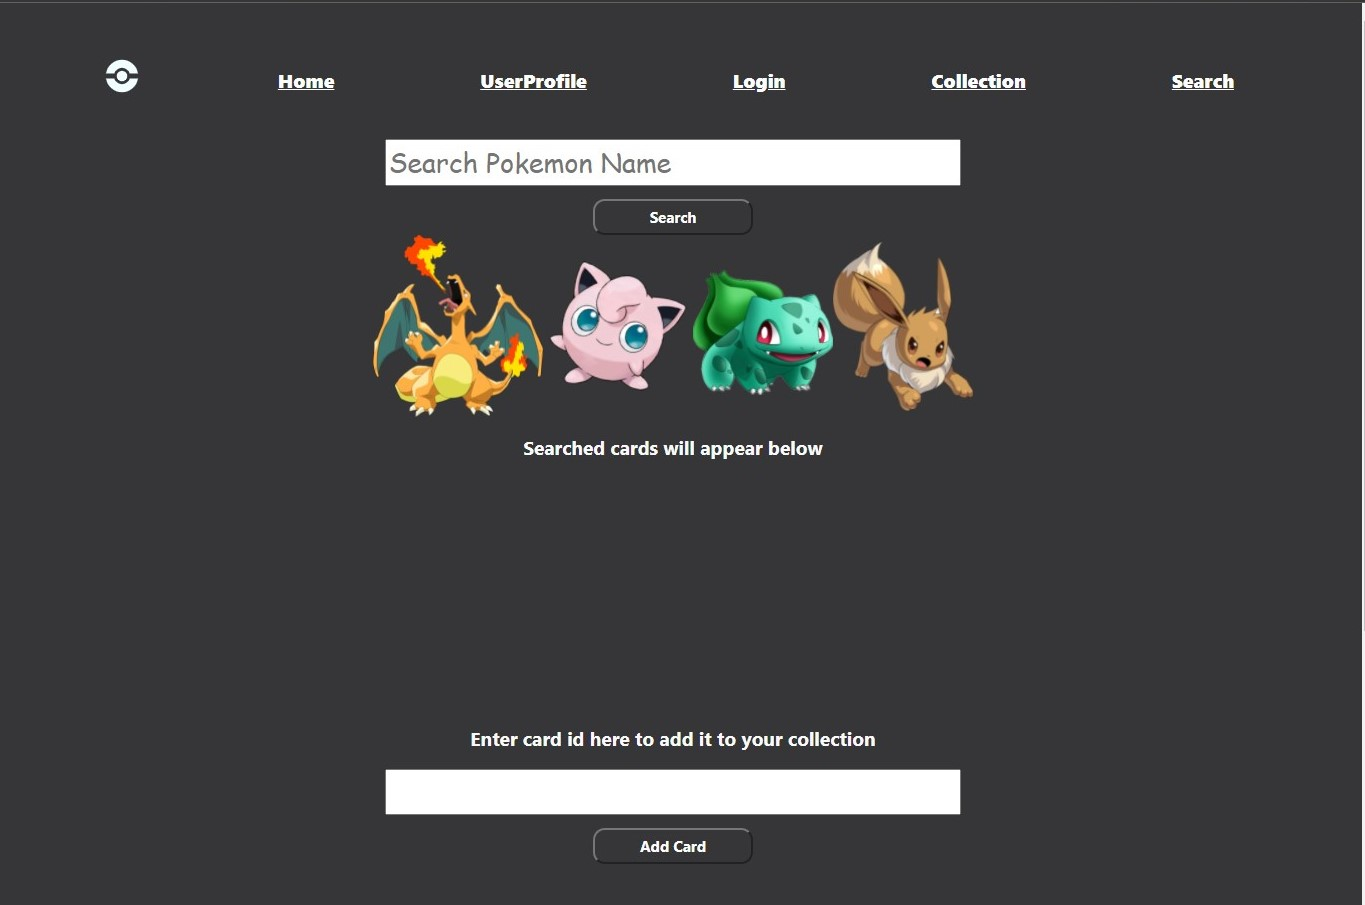
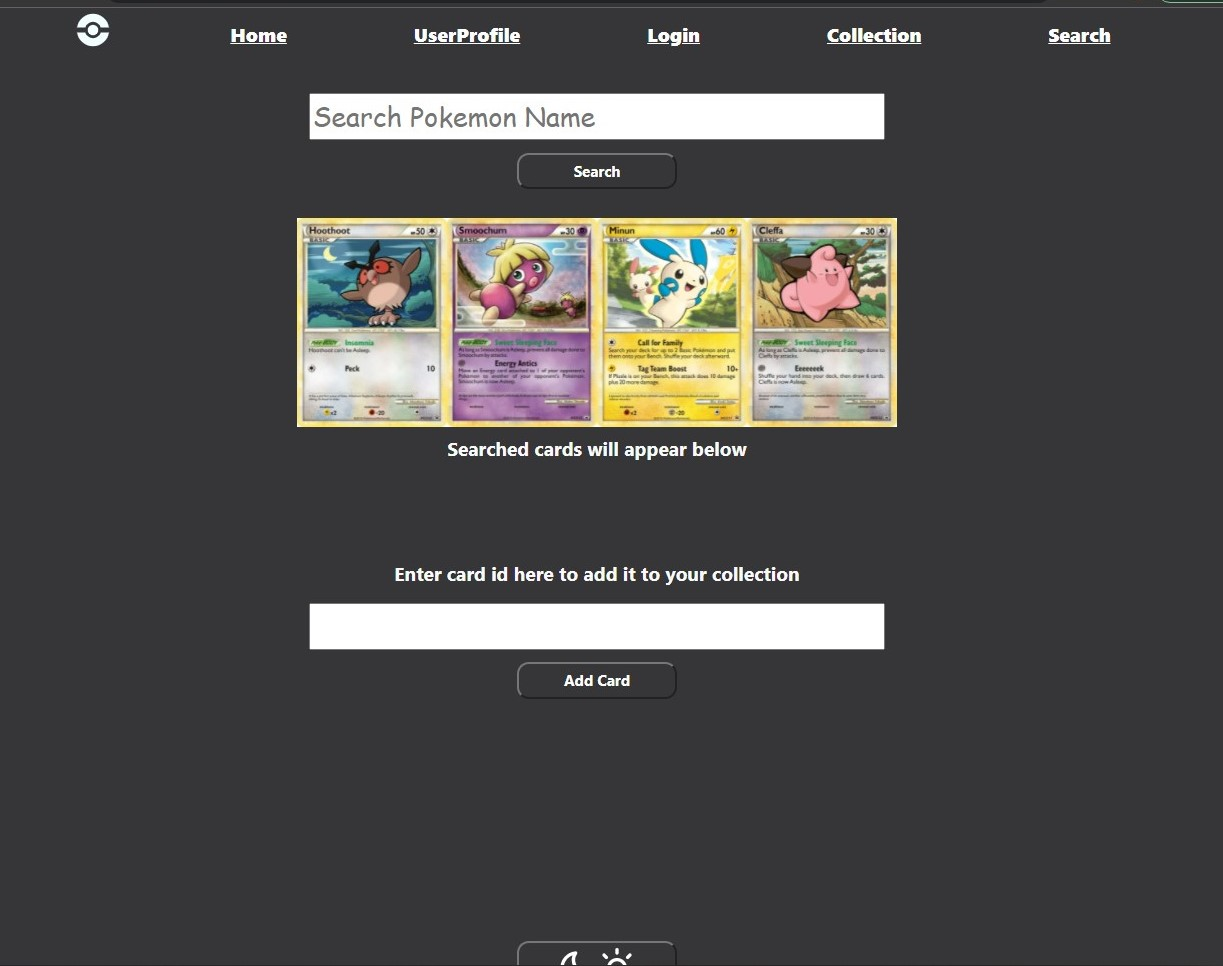
finished styling and alice the slider

diff --git a/src/components/Alice1.js b/src/components/Alice1.js
@@ -1,0 +1,67 @@
+import "./style.css";
+import { useState } from "react";
+import AliceCarousel from "react-alice-carousel";
+import "react-alice-carousel/lib/alice-carousel.css";
+
+export default function Alice1() {
+  const items = [
+    "https://i0.wp.com/pkmncards.com/wp-content/uploads/charmander-delta-pop-series-5-10.jpg?fit=600%2C825&ssl=1",
+    "https://i0.wp.com/pkmncards.com/wp-content/uploads/meowth-delta-pop-series-5-11.jpg?fit=600%2C825&ssl=1",
+    "https://i0.wp.com/pkmncards.com/wp-content/uploads/pikachu-pop-series-5-12.jpg?fit=600%2C825&ssl=1",
+    "https://i0.wp.com/pkmncards.com/wp-content/uploads/wobbuffet-neo-discovery-16.jpg?fit=600%2C825&ssl=1",
+    "https://i0.wp.com/pkmncards.com/wp-content/uploads/butterfree-neo-discovery-19.jpg?fit=600%2C825&ssl=1",
+    "https://i0.wp.com/pkmncards.com/wp-content/uploads/smeargle-neo-discovery-30.jpg?fit=600%2C825&ssl=1",
+    "https://i0.wp.com/pkmncards.com/wp-content/uploads/corsola-neo-discovery-37.jpg?fit=600%2C825&ssl=1",
+    "https://i0.wp.com/pkmncards.com/wp-content/uploads/caterpie-neo-discovery-53.jpg?fit=600%2C825&ssl=1",
+    "https://i0.wp.com/pkmncards.com/wp-content/uploads/hoppip-neo-discovery-55.jpg?fit=600%2C825&ssl=1"
+  ].map((item, i) => (
+    <div
+      style={{
+        display: "inline-block",
+        width: 200,
+        height: 300,
+        border: "2px solid #fff",
+        background: "teal"
+      }}
+      role="button"
+    >
+      <img
+        style={{
+          width: 200,
+          height: 300
+        }}
+        src={item}
+        alt="item"
+      />
+    </div>
+  ));
+
+  return (
+    <div>
+      <AliceCarousel
+        items={items}
+        infinite
+        animationDuration={200}
+        autoWidth
+        mouseTracking
+        touchTracking
+      />
+    </div>
+  );
+}
+
+function Tile({ onClick }) {
+  return (
+    <div
+      style={{
+        display: "inline-block",
+        width: 200,
+        height: 300,
+        border: "2px solid #fff",
+        background: "teal"
+      }}
+      tabIndex={0}
+      role="button"
+    />
+  );
+}

diff --git a/src/components/Alice.js b/src/components/Alice.js
@@ -1,0 +1,66 @@
+import "./style.css";
+import { useState } from "react";
+import AliceCarousel from "react-alice-carousel";
+import "react-alice-carousel/lib/alice-carousel.css";
+
+export default function Alice() {
+  const items = [
+    "https://i0.wp.com/pkmncards.com/wp-content/uploads/plusle-ex-trainer-kit-plusle-tk2p-6.jpg?fit=700%2C990&ssl=1",
+    "https://i0.wp.com/pkmncards.com/wp-content/uploads/ditto-delta-species-ds-36.jpg?fit=600%2C825&ssl=1",
+    "https://i0.wp.com/pkmncards.com/wp-content/uploads/eevee-delta-species-ds-69.jpg?fit=600%2C825&ssl=1",
+    "https://i0.wp.com/pkmncards.com/wp-content/uploads/h24.jpg?fit=600%2C825&ssl=1",
+    "https://i0.wp.com/pkmncards.com/wp-content/uploads/chansey-base-set-2-b2-3.jpg?fit=600%2C825&ssl=1",
+    "https://i0.wp.com/pkmncards.com/wp-content/uploads/dugtrio-base-set-2-b2-23.jpg?fit=600%2C825&ssl=1",
+    "https://i0.wp.com/pkmncards.com/wp-content/uploads/raichu-mysterious-treasures-mt-15.jpg?fit=600%2C825&ssl=1",
+    "https://i0.wp.com/pkmncards.com/wp-content/uploads/dunsparce-mysterious-treasures-mt-47.jpg?fit=600%2C825&ssl=1"
+  ].map((item, i) => (
+    <div
+      style={{
+        display: "inline-block",
+        width: 200,
+        height: 300,
+        border: "2px solid #fff",
+        background: "teal"
+      }}
+      role="button"
+    >
+      <img
+        style={{
+          width: 200,
+          height: 300
+        }}
+        src={item}
+        alt="item"
+      />
+    </div>
+  ));
+
+  return (
+    <div>
+      <AliceCarousel
+        items={items}
+        infinite
+        animationDuration={200}
+        autoWidth
+        mouseTracking
+        touchTracking
+      />
+    </div>
+  );
+}
+
+function Tile({ onClick }) {
+  return (
+    <div
+      style={{
+        display: "inline-block",
+        width: 200,
+        height: 300,
+        border: "2px solid #fff",
+        background: "teal"
+      }}
+      tabIndex={0}
+      role="button"
+    />
+  );
+}

diff --git a/src/components/Search.js b/src/components/Search.js
@@ -156,11 +156,13 @@ export default function Search() {
         ></input>
         <button onClick={handleSubmit}>Search</button>
         
+        
         <div className="ContainerColumn">
-        <p><img src="https://www.freepnglogos.com/uploads/pokemon-png/pokemon-png-image-famous-anime-character-png-only-39.png" width="170" alt="pokemon png image famous anime character png only" />       
-          <img src="https://www.freepnglogos.com/uploads/pokemon-png/pokemon-png-jigglypuff-pok-dex-24.png" width="150" alt="pokemon png jigglypuff pok dex" />
-        <img src="https://www.freepnglogos.com/uploads/pokemon-png/pokemon-png-image-famous-anime-character-png-only-6.png" width="140" alt="pokemon png image famous anime character png only" /> 
-        <img src="https://www.freepnglogos.com/uploads/pokemon-png/pokemon-everything-all-you-will-ever-need-know-37.png" width="140" alt="pokemon everything all you will ever need know" />
+          <br />
+        <p><img src="https://i0.wp.com/pkmncards.com/wp-content/uploads/en_US-Promo_HGSS-HGSS05-hoothoot.jpg?fit=734%2C1024&ssl=1" width="150" alt="pokemon png image famous anime character png only" />       
+          <img src="https://i0.wp.com/pkmncards.com/wp-content/uploads/en_US-Promo_HGSS-HGSS13-smoochum.jpg?fit=734%2C1024&ssl=1" width="150" alt="pokemon png jigglypuff pok dex" />
+        <img src="https://i0.wp.com/pkmncards.com/wp-content/uploads/en_US-Promo_HGSS-HGSS17-minun.jpg?fit=734%2C1024&ssl=1" width="150" alt="pokemon png image famous anime character png only" /> 
+        <img src="https://i0.wp.com/pkmncards.com/wp-content/uploads/en_US-Promo_HGSS-HGSS12-cleffa.jpg?fit=734%2C1024&ssl=1" width="150" alt="pokemon everything all you will ever need know" />
         </p> 
         </div>
         
@@ -192,6 +194,7 @@ export default function Search() {
           Add Card
         </button>
       </form>
+      
       <br />
     </Fragment>
   );

diff --git a/src/components/Collection.js b/src/components/Collection.js
@@ -1,7 +1,8 @@
 import React, { Fragment, useEffect, useState } from "react";
 import { useSelector, useDispatch, ReactReduxContext } from "react-redux";
 import { Link } from "react-router-dom";
-
+import Alice from "./Alice";
+import Alice1 from "./Alice1";
 import { getUserThunk } from "../redux/actions/userThunk";
 
 export default function Collection(props) {
@@ -120,6 +121,11 @@ export default function Collection(props) {
           </div>
         ))}
       </div>
+      <br />
+      <br />
+      <br />
+        <Alice />
+        <Alice1 />
     </Fragment>
   );
 }

diff --git a/src/App.css b/src/App.css
@@ -101,7 +101,7 @@ input {
  form {
   position : relative;
   width  : 740px;
-  height : 330px;
+  height : 350px;
   margin : 0 auto;
   padding: .5em;
   box-sizing: border-box;

diff --git a/src/components/style.css b/src/components/style.css
@@ -1,0 +1,5 @@
+.alice-carousel ul li img {
+    height: 400px;
+    width: 90%;
+    object-fit: cover;
+  }

diff --git a/README.md b/README.md
@@ -11,8 +11,11 @@ Find pokemons of a type (e.g. all evolutions of pikachu)
 
 
 Commands:
-Description     	               Command
-install styled components	  npm i styled-components
+Description     	                   Command
+install styled components	       npm i styled-components
+install react-alice-carousel       npm install react-alice-carousel
+
+
 
 To Search Pokemon
 By Name: charizard
